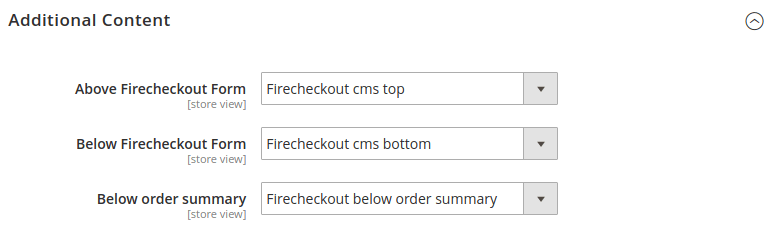
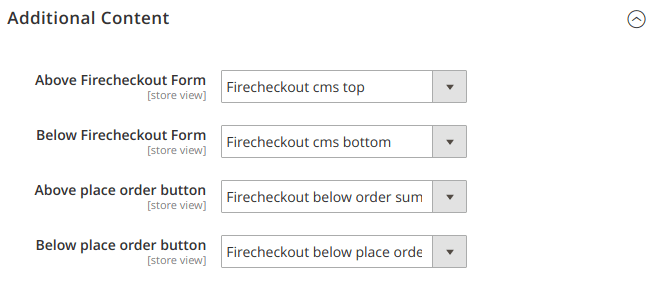
Firecheckout M2: 1.13.0 changelog updated

Changed region(s): [[0.0304, 0.2267, 0.7295, 0.9636], [0.0, 0.0283, 0.2736, 0.1134], [0.9422, 0.0283, 1.0, 0.1417]]

diff --git a/m2/extensions/firecheckout/changelog.md b/m2/extensions/firecheckout/changelog.md
@@ -12,11 +12,16 @@ category: Firecheckout
 
 {% include gallery.html images=site.data.gallery.m2.firecheckout.changelog.v1130 class="phone-up-2 tablet-up-3 photoswipe scroll" %}
 
- -  Form field errors and notices moved to stylish tooltips. You can disable
-    this [option](/m2/extensions/firecheckout/configuration/#design-section) in
-    case of conflict with your theme.
+ -  Configurable [order review](/m2/extensions/firecheckout/configuration/#order-summary-settings-section)
+    section added. Useful for EU countries.
+ -  Form field errors and notices moved to [stylish tooltips](/m2/extensions/firecheckout/configuration/#design-section)
  -  Improved credit card form styles for known payment methods: Authorize.Net,
     Braintree and other methods that use standard CC form markup.
+ -  Improved "Sticky sidebar" performance. Used for 1-column layout.
+ -  [Additional content](/m2/extensions/firecheckout/configuration/#additional-content-section) changes:
+    - "Below order summary" section will now appear above "Place Order" button
+    - New content section added: "Below place order button"
+ -  Small CSS fixes and improvements
 
 ### Version 1.12.0
 

diff --git a/m2/extensions/firecheckout/configuration.md b/m2/extensions/firecheckout/configuration.md
@@ -91,7 +91,8 @@ Option                  | Description
 ------------------------|------------
 Above Firecheckout Form | Additional content above firecheckout form
 Below Firecheckout Form | Additional content below firecheckout form
-Below order summary     | Additional content below order summary
+Above place order button| Additional content above place order button
+Below place order button| Additional content below place order button
 
 ### Shiping settings section
 
@@ -110,6 +111,14 @@ Hide methods if single method is available only | Useful if you use single metho
 Option                  | Description
 ------------------------|------------
 Default Method          | Default payment method to use
+
+### Order summary settings section
+
+![Order summary settings section](/images/m2/firecheckout/configuration/order-summary.png)
+
+Option                  | Description
+------------------------|------------
+Show Order Review       | Show order review information (Shipping Address and Shiping Method) above the cart items.
 
 ### Custom CSS and JS settings section
 
